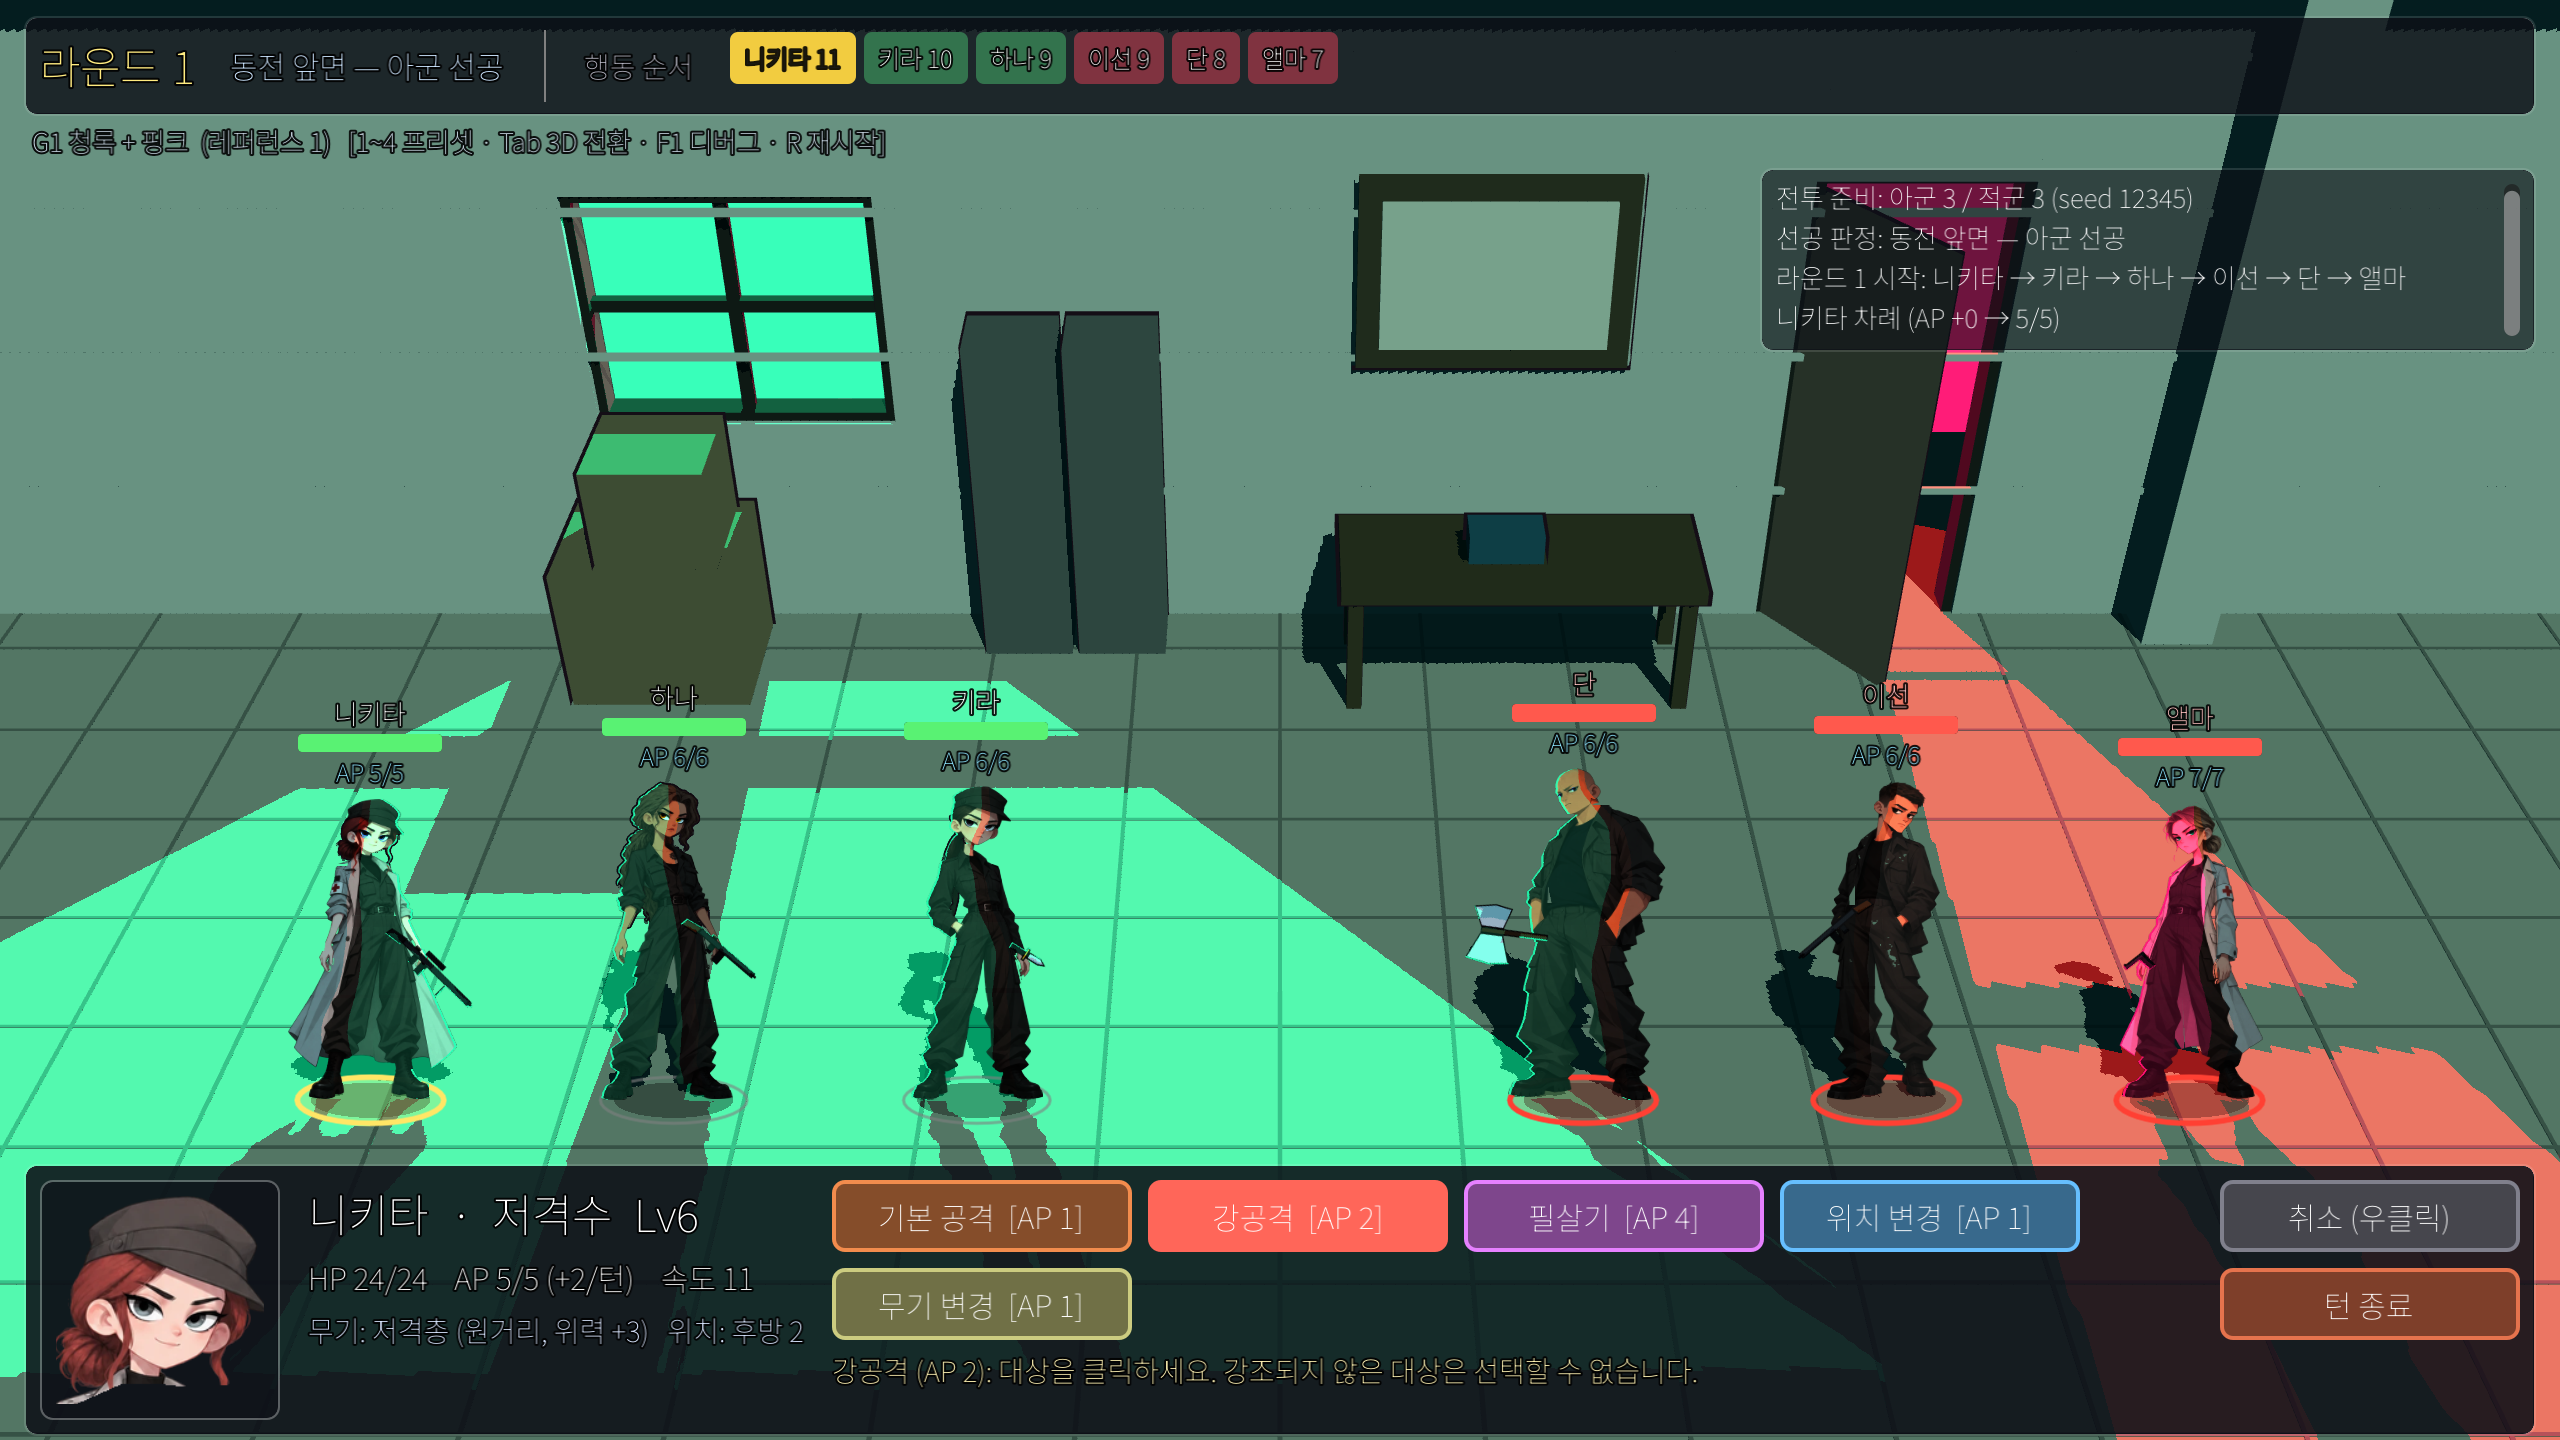
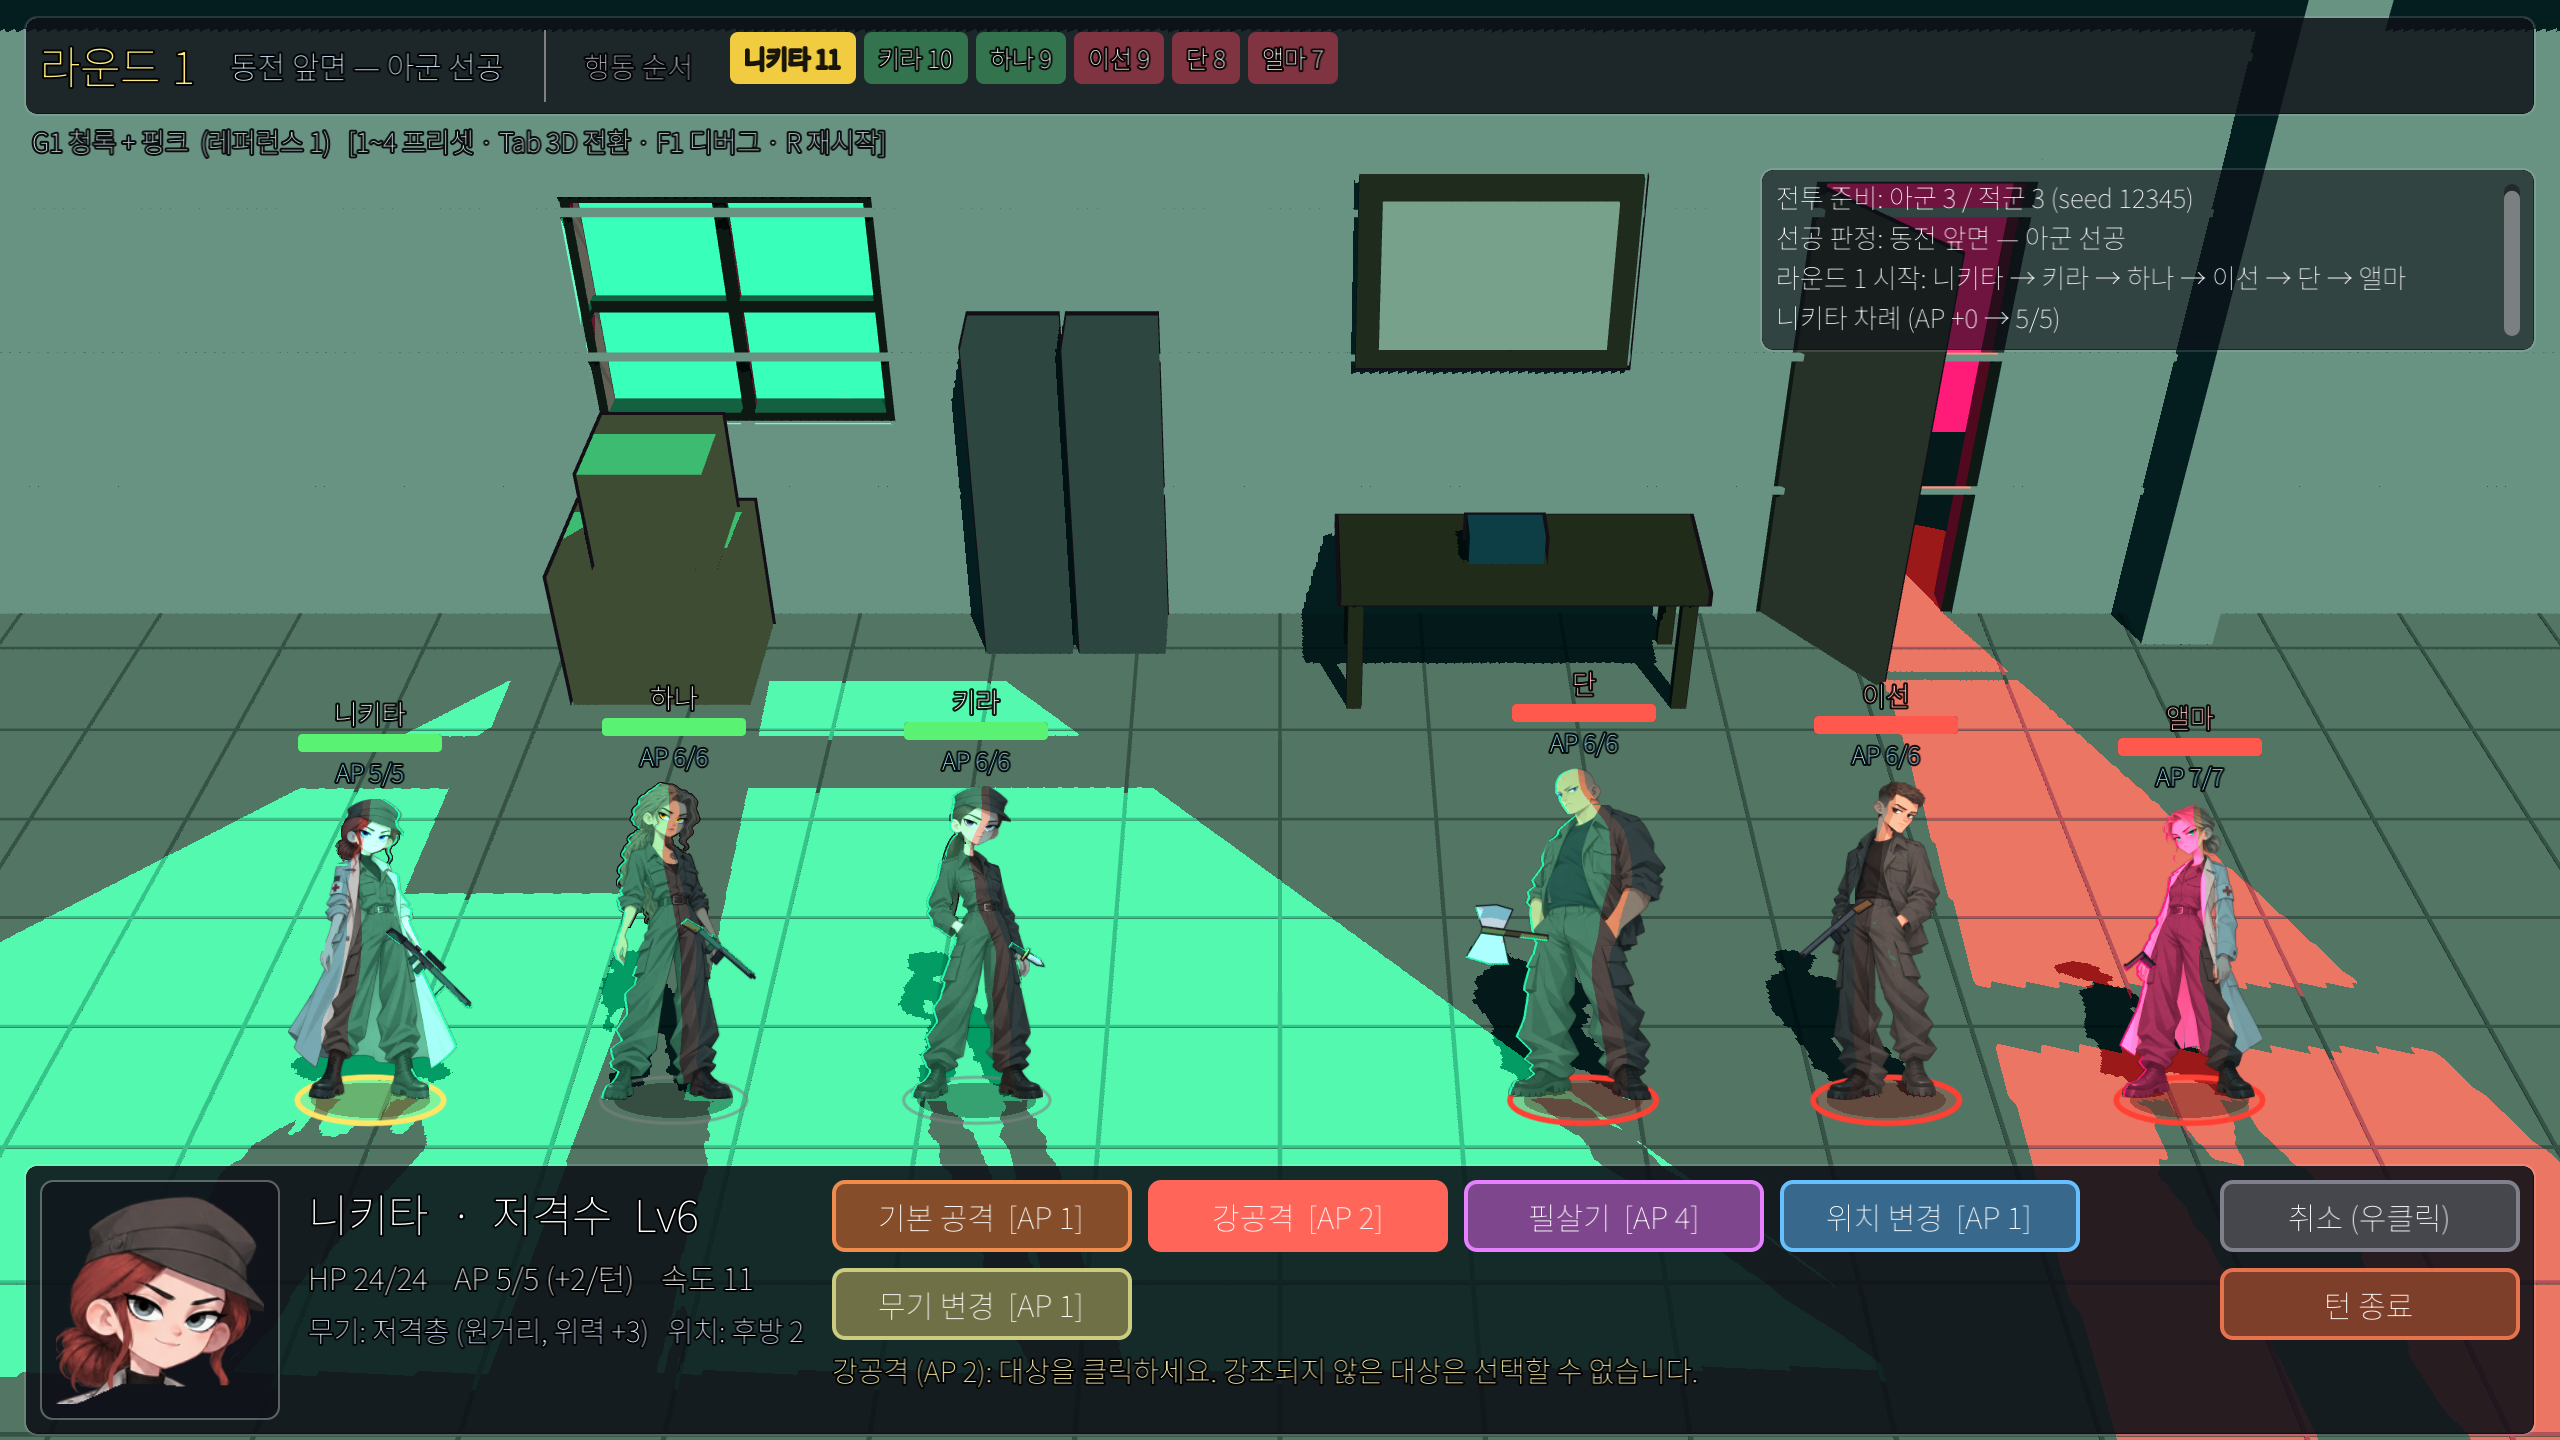
외곽선 0.45px로 얇게, 원화색은 한 번만 곱함
- 캐릭터·2D 배경 셰이더의 base = texture()*COLOR(텍스처색 제곱) → base = COLOR
- 실루엣 외곽선 0.7 → 0.45px

Claude-Session: https://claude.ai/code/session_014aytw3hj7boqn3SZ5GP5ti

diff --git a/docs/design/00_decision_log_v1_0.md b/docs/design/00_decision_log_v1_0.md
@@ -15,7 +15,7 @@
 ## 추가 확정 (2026-10-25, 프로토타입 검토 중 사용자 결정)
 - 그래픽 표현은 **2D** 로 확정 (2D/3D 비교: `docs/2D_vs_3D_comparison.md`).
 - 전투 카메라: 정면이 아니라 **뒤로 물러나 내려다보는 구도**. **피치 40° 유지**, 구도를 위로 옮겨 바닥이 덜 보이게(화면 중심 y 430→480), 전투 중에는 **차례 캐릭터 중심으로 2배 줌**, 차례가 바뀌면 그 캐릭터 중심으로 카메라 이동 (2026-10-25).
-- 캐릭터: **실루엣 외곽선은 분명하되 얇게** (현재 0.7px), 조명 색은 반투명하게 덮지 않고 **쨍하게** 입힘 (`shaders/cel_character.gdshader`).
+- 캐릭터: **실루엣 외곽선은 분명하되 얇게** (현재 0.45px, 2026-10-25 0.7→0.45), 조명 색은 반투명하게 덮지 않고 **쨍하게** 입힘 (`shaders/cel_character.gdshader`).
 - 캐릭터 **림 라인(그림자 쪽 가장자리의 반대 조명색 선) 사용** 확정. 전투 중 F3 토글은 비교·디버그용으로만 유지.
 
 - 제공 캐릭터 이름·키: **하나 176.8cm**, **니키타 168cm**, **키라 175cm**, **앨마 166cm**, **이선 178cm**, **단 185cm**. 화면 크기에 키 비율 반영.
@@ -27,10 +27,10 @@
 
 - **캐릭터·배경 렌더링과 셰이더는 커밋 6a730da 시점으로 확정** (2026-10-25 사용자 지정):
   캐릭터 셰이더 v4(원화 밝기 유지 + 광원 색상 이동 + 하드 에지 셀 그림자 + 같은 쪽 림), 배경 3D 셀 셰이더(재질색 × 색조, 광원색 혼합),
-  캐릭터 명암은 위치별 3D 광원 탐침(가장 센 빛 = 키, 뒤에서 오면 같은 쪽 림), 외곽선 0.7px.
+  캐릭터 명암은 위치별 3D 광원 탐침(가장 센 빛 = 키, 뒤에서 오면 같은 쪽 림).
   이후에 시도한 v5~v7(빛 지도, 장면 팔레트 칠, 얼굴 보존, 외곽선 1.2px)은 되돌림.
   유지: 캐릭터 모양 그림자, 전투 불능 불투명, 이선 원화 눈 색, 6인 편성.
-- 참고: v4 셰이더는 텍스처색에 COLOR(이미 텍스처색)를 한 번 더 곱해 원화보다 진하고 어두운 톤이 난다. 확정된 룩에 포함된 특성이므로 그대로 둔다.
+- 원화색은 **한 번만 곱함** (2026-10-25): v4 셰이더가 텍스처색에 COLOR(이미 텍스처색)를 한 번 더 곱해 원화보다 진하고 어둡던 것을 수정 → 원화 밝기 그대로.
 
 - 렌더 해상도 **QHD(2560×1440) 고정**. 리그 원화는 원본의 0.5배(키 약 750px)로 잘라 QHD 표시 키(약 300px)의 2.5배 해상도 확보.
 
